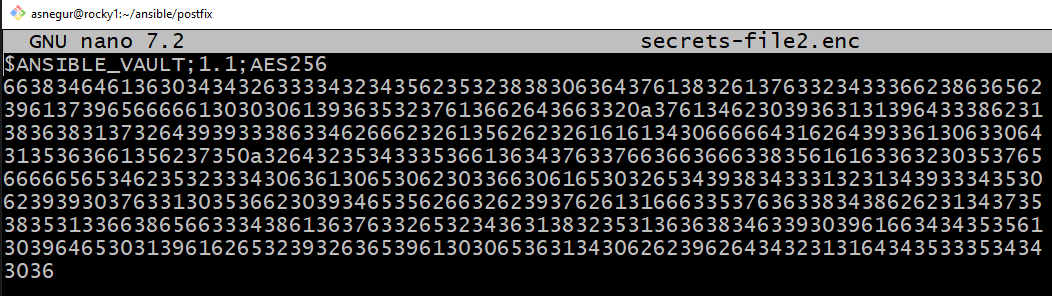
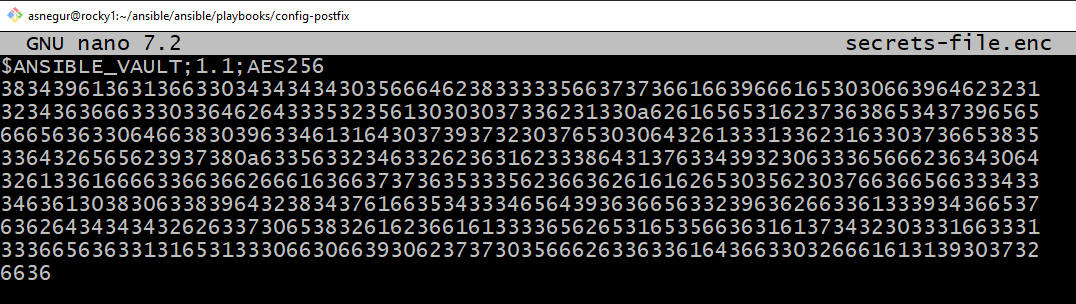
Lesson-50 After review

diff --git a/postfix/README.md b/postfix/README.md
@@ -12,14 +12,18 @@
   sudo apt install ansible
   ```
 
-  or follow [step 2](https://github.com/Alliedium/awesome-ansible#setting-up-config-machine) of `Setting up config machine` section to install latest Ansible version
+  or follow [step 2](https://github.com/Alliedium/awesome-ansible#setting-up-config-machine) of `Setting up config machine` section to install the latest Ansible version
 
-  ### 2. Install Ansible postfix role - [Oefenweb/ansible-postfix](https://github.com/Oefenweb/ansible-postfix)
-
-  - Navigate to `./playbooks/config-postfix`
+  ### 2. Clone this repo
 
   ```
-  ansible-galaxy install -r ./requirements.yml
+  git clone https://github.com/Alliedium/awesome-proxmox.git $HOME/awesome-proxmox
+  ```
+
+  ### 3. Install Ansible postfix role - [Oefenweb/ansible-postfix](https://github.com/Oefenweb/ansible-postfix)
+
+  ```
+  ansible-galaxy install -r $HOME/awesome-proxmox/postfix/config-postfix/requirements.yml
   ```
 
   ![install_postfix_role](./images/install_postfix_role.png)
@@ -35,47 +39,42 @@
  
   Ansible vault provides a way to encrypt and manage sensitive data such as passwords. We use Ansible vault to store `pve_postfix_sasl_user` and `pve_postfix_sasl_password` variables
 
-  - Navigate to `./playbooks/config-postfix`
-  
-  ```
-  cd ./playbooks/config-postfix
-  ```
-
-  - copy `./secrets-file.enc.example` file to `./secrets-file.enc` and edit last one
+  - copy `$HOME/awesome-proxmox/postfix/config-postfix/secrets-file.enc.example` file to `$HOME/awesome-proxmox/postfix/config-postfix/secrets-file.enc` and edit the last one
   
   ![secrets](./images/secrets-file.png)
 
-  Encrypt `./secrets-file.enc`  file and set a password by command
+  Encrypt `$HOME/awesome-proxmox/postfix/config-postfix/secrets-file.enc`  file and set a password by command
 
   ```
-  ansible-vault encrypt secrets-file.enc
+  ansible-vault encrypt $HOME/awesome-proxmox/postfix/config-postfix/secrets-file.enc
   ```
 
   ![encrypt file](./images/secrets-file_1.png)
 
-  `./secrets-file.enc`  file is encrypted
+  `$HOME/awesome-proxmox/postfix/config-postfix/secrets-file.enc`  file is encrypted
 
   ![encrypted_file file](./images/encrypted_file.png)
 
 ## **Ansible postfix playbook**
 
-  - copy `./inventory` folder to `./my-inventory`
+  - copy `$HOME/awesome-proxmox/postfix/config-postfix/inventory` folder to `$HOME/awesome-proxmox/postfix/config-postfix/my-inventory`
 
-  - In `./my-inventory/hosts.yml` file replace hosts IP addresses to your hosts IP addresses and edit the path to private key to match it on your machine.
+  - In `$HOME/awesome-proxmox/postfix/config-postfix/my-inventory/hosts.yml` file replace hosts IP addresses to your hosts IP addresses and edit the path to private key to match it on your machine.
 
  
   **Run ansible playbook**
 
-  Navigate to `./playbooks/config-postfix` and run command
+  Navigate to `$HOME/awesome-proxmox/postfix/config-postfix` and run command
 
   ```
+  cd $HOME/awesome-proxmox/postfix/config-postfix
   ansible-playbook ./site.yaml -i ../../my-inventory/ -e @secrets-file.enc --ask-vault-pass
   ```
   
-  You can edit the file `./playbooks/config-postfix/run.sh` by pasting the above command in place of the existing one and run
+  You can edit the file `$HOME/awesome-proxmox/postfix/config-postfix/run.sh` by pasting the above command in place of the existing one and run
   
   ```
-  ./run.sh
+  $HOME/awesome-proxmox/postfix/config-postfix/run.sh
   ```
   
   ![run_sh](./images/run_sh.png)
